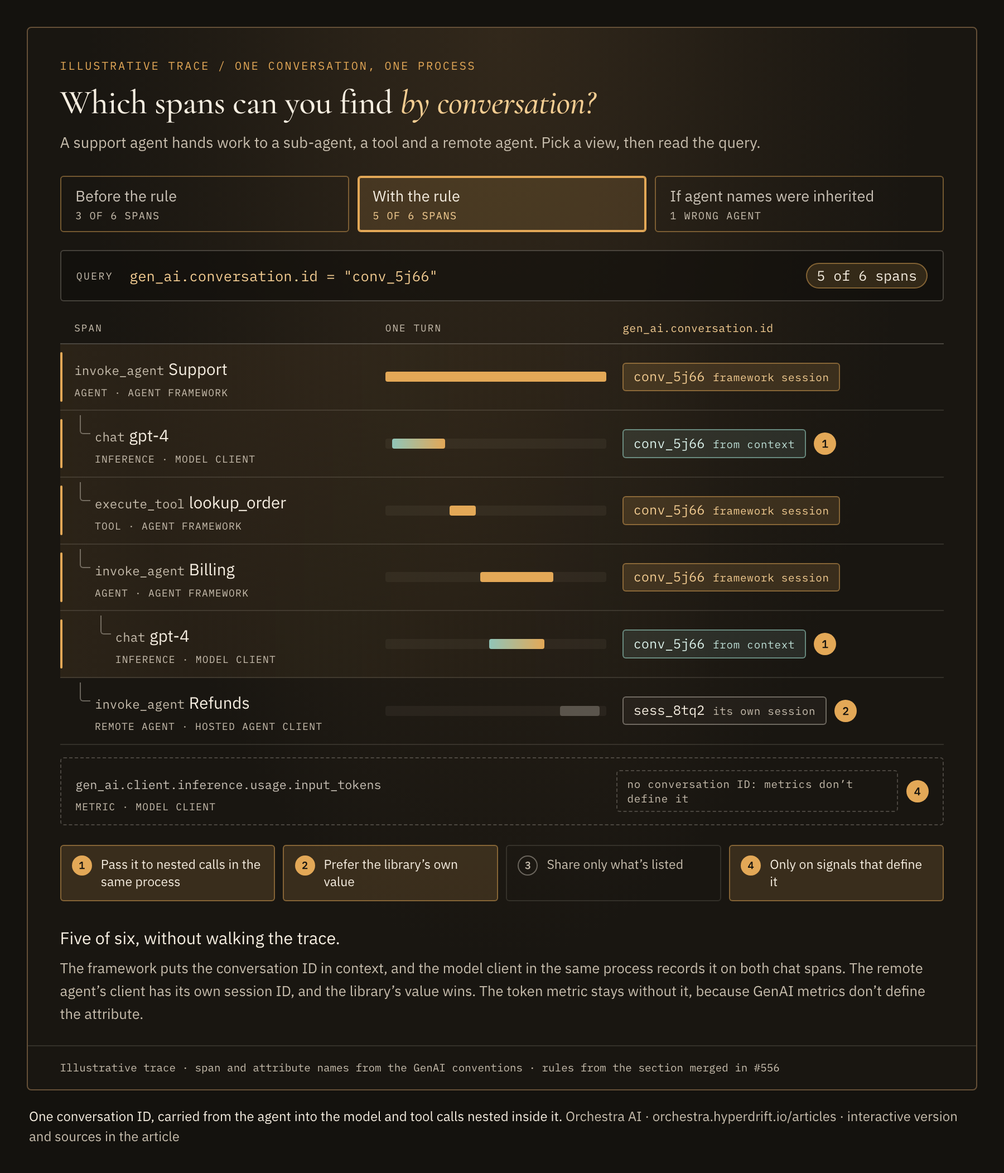
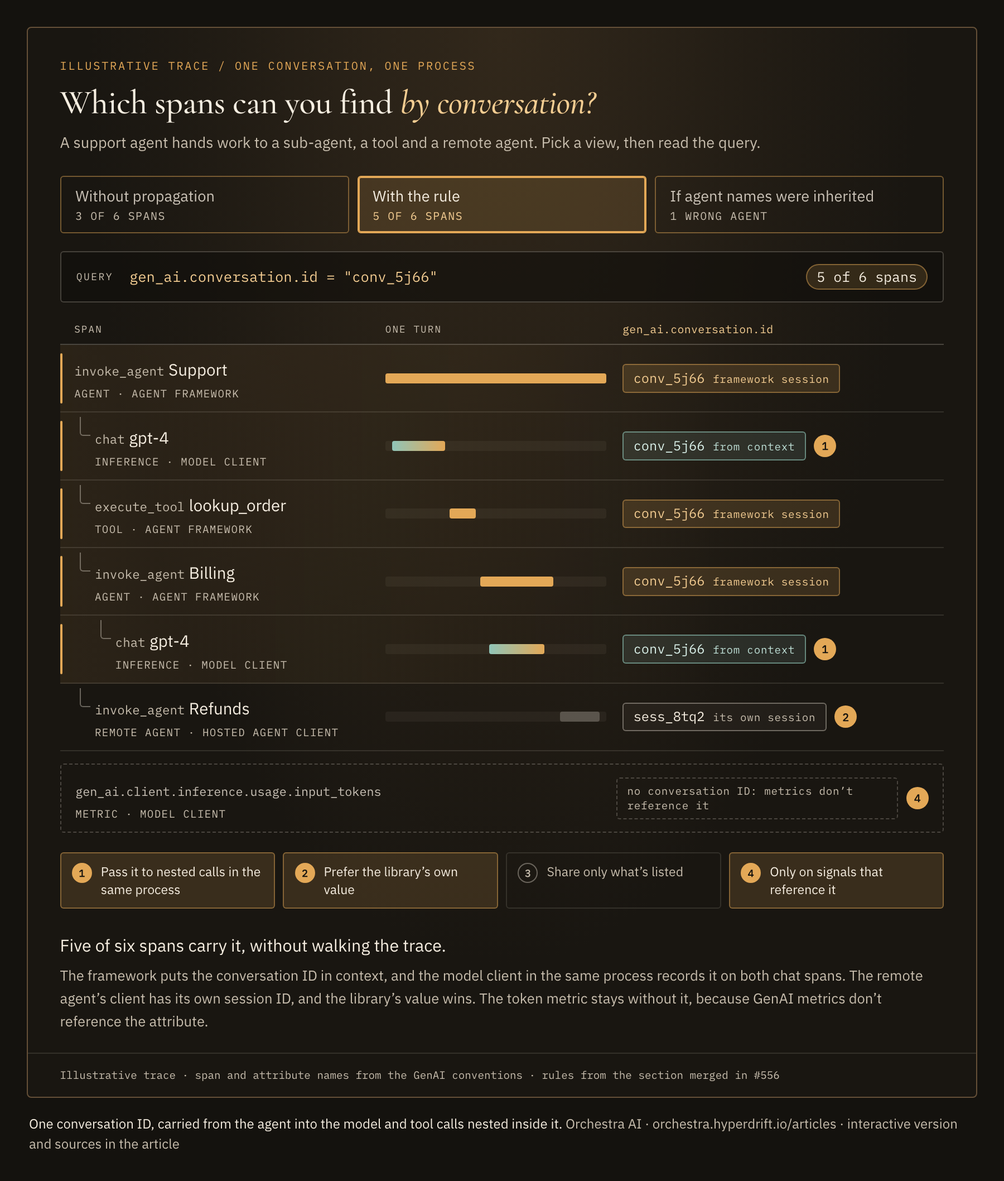
Apply the editorial read and ecosystem research to the #556 draft
Credit Liudmila's wording, name OpenTelemetry in the share line, use the
merged rule's "reference" wording, add the Python utility precedent, the
CNCF context and fourteen documented backends, scope small-text styles
above the article-wide rule, and read export captions from the catalogue.

diff --git a/src/components/visuals/ConventionsReach.tsx b/src/components/visuals/ConventionsReach.tsx
@@ -16,7 +16,7 @@ const groups = [
   { id: 'evaluation', label: 'Evaluation', libraries: ['deepeval', 'azure-ai-evaluation'] },
 ] as const;
 
-/** Every span that defines `gen_ai.conversation.id`, the reference libraries that emit it and those that record the ID on it. */
+/** Every span that references `gen_ai.conversation.id`, the reference libraries that emit it and those that record the ID on it. */
 const spans = [
   { id: 'agent', label: 'Agent, in process', emits: ['adk_a2a', 'agent-framework', 'autogen', 'crewai', 'google-adk', 'langchain', 'openai-agents', 'pydantic-ai'], records: ['adk_a2a', 'google-adk'] },
   { id: 'remote', label: 'Remote agent', emits: ['aws-bedrock-agent', 'azure-ai-foundry', 'google-genai', 'openai-assistants'], records: ['aws-bedrock-agent', 'openai-assistants'] },
@@ -35,8 +35,13 @@ const libraryCount = groups.reduce((sum, group) => sum + group.libraries.length,
 const places = spans.reduce((sum, span) => sum + span.emits.length, 0);
 const recorded = spans.reduce((sum, span) => sum + span.records.length, 0);
 
-/** Backends whose own documentation describes reading the GenAI conventions, as checked on 30–31 October 2026. */
-const readers: readonly string[] = [];
+/** Backends whose own documentation describes reading the GenAI conventions, read 30 October 2026. `groups`: the docs group a conversation by `gen_ai.conversation.id`. */
+const readers: readonly { name: string; groups?: boolean }[] = [
+  { name: 'Datadog', groups: true }, { name: 'Honeycomb', groups: true }, { name: 'Grafana Cloud', groups: true }, { name: 'Dynatrace', groups: true },
+  { name: 'Opik', groups: true }, { name: 'W&B Weave', groups: true }, { name: 'Pydantic Logfire', groups: true },
+  { name: 'Langfuse' }, { name: 'Arize Phoenix' }, { name: 'MLflow' }, { name: 'LangSmith' }, { name: 'Braintrust' }, { name: 'New Relic' }, { name: 'Google Cloud' },
+];
+const grouping = readers.filter((reader) => reader.groups).length;
 
 /** One document between the libraries that write GenAI telemetry and the backends that read it. */
 export function ConventionsReach() {
@@ -49,17 +54,17 @@ export function ConventionsReach() {
   };
   const summary = span
     ? { title: `${span.label}: ${span.records.length} of ${span.emits.length}.`, text: `${span.emits.length === 1 ? 'One library emits' : `${span.emits.length} libraries emit`} this span in the reference scenarios; ${span.records.length === span.emits.length ? 'it records' : `${span.records.length} record`} the conversation ID on it.` }
-    : { title: `${recordsAnywhere.size} of ${libraryCount} libraries record the conversation ID somewhere.`, text: `Count every place a library emits a span that defines the attribute and you get ${places}; the ID is in ${recorded} of them. The rule in #556 is how a conversation that the framework knows can reach the spans nested inside it.` };
+    : { title: `In their scenarios, ${recordsAnywhere.size} of ${libraryCount} libraries record the conversation ID.`, text: `Count every place a library emits a span that references the attribute and you get ${places}; the ID is in ${recorded} of them. The rule in #556 is how a conversation that the framework knows can reach the spans nested inside it.` };
   return <section data-visual="conventions-reach" data-pick={pick} aria-label="Where the rule sits between the libraries that write GenAI telemetry and the backends that read it">
-    <header><p>FROM THE REPOSITORY’S REFERENCE REPORTS / 30 OCTOBER 2026</p><h3>One document between <em>writers and readers</em></h3><p>The reference scenarios check {libraryCount} libraries against the GenAI conventions. Gold marks a library that records the conversation ID. Pick a span to see which libraries emit it.</p></header>
+    <header><p>FROM THE REPOSITORY’S REFERENCE REPORTS / 30 OCTOBER 2026</p><h3>One document between <em>writers and readers</em></h3><p>The reference scenarios check {libraryCount} libraries against the GenAI conventions, and backends read the same names. Gold marks a library that records the conversation ID and a backend that groups conversations by it. Pick a span to see which libraries emit it.</p></header>
     <div data-coverage="">
       <h4>Where the conversation ID is recorded today <small>{recorded} of {places}</small></h4>
       <nav aria-label="Pick a span">
-        <button type="button" aria-pressed={pick === 'all'} onClick={() => setPick('all')}><span>All spans</span><small>{recorded} of {places}</small></button>
+        <button type="button" aria-pressed={pick === 'all'} onClick={() => setPick('all')}><span>All spans</span>{' '}<small>{recorded} of {places}</small></button>
         {spans.map((entry) => <button key={entry.id} type="button" aria-pressed={pick === entry.id} onClick={() => setPick(entry.id)}>
           <span>{entry.label}</span>
           <i aria-hidden="true">{entry.emits.map((library) => <b key={library} data-on={(entry.records as readonly string[]).includes(library) || undefined} />)}</i>
-          <small>{entry.records.length} of {entry.emits.length}</small>
+          {' '}<small>{entry.records.length} of {entry.emits.length}</small>
         </button>)}
       </nav>
     </div>
@@ -77,11 +82,11 @@ export function ConventionsReach() {
       </div>
       <svg data-funnel="out" viewBox="0 0 100 24" preserveAspectRatio="none" aria-hidden="true"><path d="M44 0L2 24M47 0L26 24M50 0V24M53 0L74 24M56 0L98 24" /></svg>
       <section data-readers="" aria-label="Backends that read the conventions">
-        <h4>Read telemetry <small>any OpenTelemetry backend</small></h4>
-        {readers.length > 0 && <ul>{readers.map((reader) => <li key={reader}>{reader}</li>)}</ul>}
-        <p>Spans, metrics and events arrive with the same names, whichever library wrote them.</p>
+        <h4>Read telemetry <small>{readers.length} backends document the conventions</small></h4>
+        <ul>{readers.map((reader) => <li key={reader.name} data-groups={reader.groups || undefined}>{reader.name}</li>)}</ul>
+        <p>Gold: {grouping} group an agent conversation by <code>gen_ai.conversation.id</code>, so the spans that carry it join the conversation.</p>
       </section>
     </div>
-    <footer>Counts from the repository’s reference reports at main 6f98aef, read 30 October 2026 · groups are ours · a scenario shows what it exercises, not everything a library can do</footer>
+    <footer>Counts from the repository’s reference reports at main 6f98aef, read 30 October 2026 · library groups are ours · a scenario shows what it exercises, not everything a library can do · backends from their own documentation, read 30 October 2026</footer>
   </section>;
 }

diff --git a/src/components/visuals/ConversationTrace.tsx b/src/components/visuals/ConversationTrace.tsx
@@ -45,21 +45,21 @@ const rules = [
   { id: 'pass', text: 'Pass it to nested calls in the same process' },
   { id: 'prefer', text: 'Prefer the library’s own value' },
   { id: 'listed', text: 'Share only what’s listed' },
-  { id: 'defined', text: 'Only on signals that define it' },
+  { id: 'defined', text: 'Only on signals that reference it' },
 ] as const;
 
 type RuleId = (typeof rules)[number]['id'];
 
 const views: Record<View, { label: string; count: string; lit: readonly RuleId[]; title: string; text: string }> = {
   before: {
-    label: 'Before the rule', count: '3 of 6 spans', lit: [],
-    title: 'Three of six spans answer to the conversation.',
+    label: 'Without propagation', count: '3 of 6 spans', lit: [],
+    title: 'Three of six spans carry the conversation ID.',
     text: 'The agent framework records its session on its own spans. The model client inside it doesn’t know which conversation it serves, so both chat spans arrive without the ID. To find them, you walk the trace down from the agent.',
   },
   rule: {
     label: 'With the rule', count: '5 of 6 spans', lit: ['pass', 'prefer', 'defined'],
-    title: 'Five of six, without walking the trace.',
-    text: 'The framework puts the conversation ID in context, and the model client in the same process records it on both chat spans. The remote agent’s client has its own session ID, and the library’s value wins. The token metric stays without it, because GenAI metrics don’t define the attribute.',
+    title: 'Five of six spans carry it, without walking the trace.',
+    text: 'The framework puts the conversation ID in context, and the model client in the same process records it on both chat spans. The remote agent’s client has its own session ID, and the library’s value wins. The token metric stays without it, because GenAI metrics don’t reference the attribute.',
   },
   names: {
     label: 'If agent names were inherited', count: '1 wrong agent', lit: ['listed'],
@@ -95,7 +95,7 @@ export function ConversationTrace() {
   }).length;
   return <section data-visual="conversation-trace" data-view={view} data-animate={animate || undefined} aria-label="One conversation as a trace: which spans carry its ID">
     <header><p>ILLUSTRATIVE TRACE / ONE CONVERSATION, ONE PROCESS</p><h3>Which spans can you find <em>by conversation?</em></h3><p>A support agent hands work to a sub-agent, a tool and a remote agent. Pick a view, then read the query.</p></header>
-    <nav data-views="" aria-label="Choose a view">{order.map((id) => <button key={id} type="button" value={id} aria-pressed={view === id} onClick={() => { setAnimate(true); setView(id); }}>{views[id].label}<small>{views[id].count}</small></button>)}</nav>
+    <nav data-views="" aria-label="Choose a view">{order.map((id) => <button key={id} type="button" value={id} aria-pressed={view === id} onClick={() => { setAnimate(true); setView(id); }}>{views[id].label}{' '}<small>{views[id].count}</small></button>)}</nav>
     <div data-query=""><span>Query</span><code>{query.attribute} = &quot;{query.value}&quot;</code><strong aria-live="polite">{matches} of {spans.length} spans</strong></div>
     <div data-spans-head="" aria-hidden="true"><span>Span</span><span>One turn</span><span>{query.attribute}</span></div>
     <ol data-spans="">{spans.map((span) => {
@@ -108,7 +108,7 @@ export function ConversationTrace() {
         <div data-value="" key={view}>{view === 'names'
           ? (span.agent
             ? (wrong ? <span data-chip="wrong"><code>{span.inherited}</code> wrong agent: this span invokes {span.agent}</span> : <span data-chip="agent"><code>{span.agent}</code> its own agent</span>)
-            : <span data-chip="none">not defined on inference spans</span>)
+            : <span data-chip="none">inference spans don’t reference it</span>)
           : <Chip source={source} />}
           {view === 'rule' && span.rule === 'context' && <b data-rule-mark="" title="Rule 1">1</b>}
           {view === 'rule' && span.rule === 'session' && <b data-rule-mark="" title="Rule 2">2</b>}
@@ -116,7 +116,7 @@ export function ConversationTrace() {
         </div>
       </li>;
     })}</ol>
-    <div data-metric=""><div data-name=""><code>gen_ai.client.<wbr />inference.<wbr />usage.<wbr />input_tokens</code><small>Metric · model client</small></div><div data-value=""><span data-chip="none">no conversation ID: metrics don’t define it</span>{view === 'rule' && <b data-rule-mark="" title="Rule 4">4</b>}</div></div>
+    <div data-metric=""><div data-name=""><code>gen_ai.client.<wbr />inference.<wbr />usage.<wbr />input_tokens</code><small>Metric · model client</small></div><div data-value=""><span data-chip="none">no conversation ID: metrics don’t reference it</span>{view === 'rule' && <b data-rule-mark="" title="Rule 4">4</b>}</div></div>
     <ol data-rules="" aria-label="The four rules in the merged section">{rules.map((rule, index) => <li key={rule.id} data-lit={current.lit.includes(rule.id) || undefined}><b>{index + 1}</b>{rule.text}</li>)}</ol>
     <p data-outcome="" role="status"><strong>{current.title}</strong>{current.text}</p>
     <footer>Illustrative trace · span and attribute names from the GenAI conventions · rules from the section merged in #556</footer>

diff --git a/src/app/visual-conventions-reach.css b/src/app/visual-conventions-reach.css
@@ -3,7 +3,7 @@
 [data-visual="conventions-reach"] { container: reach / inline-size; --records: #e3a857; --emits: rgb(246 238 225 / .55); }
 [data-visual="conventions-reach"] button:focus-visible { outline: 2px solid var(--gold-light); outline-offset: 3px; }
 [data-visual="conventions-reach"] h4 { display: flex; flex-wrap: wrap; align-items: baseline; gap: .2rem .6rem; margin: 0 0 .8rem; font: 500 1.15rem/1.2 var(--font-display); color: var(--cream); }
-[data-visual="conventions-reach"] h4 small { font: .56rem var(--font-mono); letter-spacing: .12em; text-transform: uppercase; color: var(--cream-3); }
+:is(#article, :root) [data-visual="conventions-reach"] h4 small { font: .6rem var(--font-mono); letter-spacing: .12em; text-transform: uppercase; color: var(--cream-3); }
 
 [data-visual="conventions-reach"] [data-reach] { margin: 0 1.8rem 1.6rem; }
 
@@ -29,12 +29,12 @@
 /* The waist: the conventions, with the merged section lit. */
 [data-reach] [data-waist] { display: grid; justify-items: center; gap: .6rem; width: min(100%, 560px); margin: 0 auto; padding: 1rem 1.1rem 1.1rem; border: 1px solid var(--gold); border-radius: 4px; background: radial-gradient(ellipse at 50% 0, rgb(227 168 87 / .16), rgb(22 19 15 / .92) 70%); text-align: center; box-shadow: 0 0 40px rgb(227 168 87 / .12); }
 [data-waist] > p { display: grid; gap: .3rem; margin: 0; font: 500 1.2rem/1.2 var(--font-display); color: var(--cream); }
-[data-waist] > p small { font: .55rem var(--font-mono); letter-spacing: .14em; text-transform: uppercase; color: var(--cream-3); }
+:is(#article, :root) [data-waist] > p small { font: .58rem var(--font-mono); letter-spacing: .14em; text-transform: uppercase; color: var(--cream-3); }
 [data-waist] > ul { display: flex; flex-wrap: wrap; justify-content: center; gap: .25rem .35rem; margin: 0; padding: 0; list-style: none; }
 [data-waist] > ul li { padding: .15rem .45rem; border: 1px solid var(--line-soft); border-radius: var(--r-pill); font: .6rem/1.3 var(--font-mono); color: var(--cream-3); }
 [data-waist] [data-ours] { display: grid; gap: .25rem; width: 100%; padding: .6rem .8rem; border-radius: 3px; background: var(--gold); color: var(--ink); }
 [data-waist] [data-ours] span { font: 600 .9rem/1.25 var(--font-body); }
-[data-waist] [data-ours] small { font: .62rem/1.4 var(--font-mono); letter-spacing: .03em; color: rgb(20 18 14 / .82); }
+:is(#article, :root) [data-waist] [data-ours] small { font: .66rem/1.4 var(--font-mono); letter-spacing: .03em; color: rgb(20 18 14 / .82); }
 [data-waist] [data-ours] code { font: inherit; font-weight: 600; color: var(--ink); }
 
 /* Readers. */
@@ -49,13 +49,13 @@
 [data-coverage] nav { display: grid; grid-template-columns: repeat(4, minmax(0, 1fr)); gap: .4rem; }
 [data-visual="conventions-reach"] [data-coverage] button { display: grid; grid-template-columns: 1fr auto; grid-template-areas: "label count" "dots dots"; align-items: center; gap: .35rem .5rem; padding: .55rem .65rem; text-align: left; border-color: var(--line-soft); }
 [data-coverage] button > span { grid-area: label; font: 500 .78rem/1.25 var(--font-body); color: var(--cream-2); }
-[data-coverage] button > small { grid-area: count; font: .62rem var(--font-mono); color: var(--cream-3); }
+:is(#article, :root) [data-coverage] button > small { grid-area: count; font: .68rem var(--font-mono); color: var(--cream-3); }
 [data-coverage] button > i { grid-area: dots; display: flex; flex-wrap: wrap; gap: 3px; min-height: 9px; }
 [data-coverage] button > i b { width: 9px; height: 9px; border-radius: 50%; box-shadow: inset 0 0 0 1px var(--emits); }
 [data-coverage] button > i b[data-on] { background: var(--records); box-shadow: none; }
 [data-visual="conventions-reach"] [data-coverage] button[aria-pressed="true"] { border-color: var(--gold); background: var(--gold-soft); }
 [data-coverage] button[aria-pressed="true"] > span { color: var(--cream); }
-[data-coverage] button[aria-pressed="true"] > small { color: var(--gold-light); }
+:is(#article, :root) [data-coverage] button[aria-pressed="true"] > small { color: var(--gold-light); }
 [data-visual="conventions-reach"] [data-outcome] { min-height: 92px; padding-bottom: 1.3rem; }
 
 @container reach (max-width: 640px) {
@@ -63,3 +63,6 @@
   [data-reach] [data-writers] { grid-template-columns: 1fr; padding: .9rem; }
   [data-coverage] nav { grid-template-columns: 1fr 1fr; }
 }
+[data-reach] [data-readers] li[data-groups] { border-color: var(--records); background: rgb(227 168 87 / .2); color: var(--gold-light); }
+[data-reach] [data-readers] li[data-groups]::before { content: '●'; margin-right: .35rem; font-size: .55rem; color: var(--records); vertical-align: middle; }
+[data-reach] [data-readers] p code { font: .72rem var(--font-mono); color: var(--gold-light); }

diff --git a/src/app/visual-conversation-trace.css b/src/app/visual-conversation-trace.css
@@ -6,11 +6,11 @@
 /* The three views. */
 [data-visual="conversation-trace"] > nav[data-views] { display: grid; grid-template-columns: repeat(3, minmax(0, 1fr)); gap: .45rem; margin: 0 1.8rem 1rem; }
 [data-visual="conversation-trace"] [data-views] button { display: grid; gap: .2rem; justify-items: start; align-content: start; text-align: left; font: 500 .85rem/1.25 var(--font-body); }
-[data-visual="conversation-trace"] [data-views] button small { font: .58rem/1.2 var(--font-mono); letter-spacing: .08em; text-transform: uppercase; color: var(--cream-3); }
+:is(#article, :root) [data-visual="conversation-trace"] [data-views] button small { font: .62rem/1.2 var(--font-mono); letter-spacing: .08em; text-transform: uppercase; color: var(--cream-3); }
 [data-visual="conversation-trace"] [data-views] button[aria-pressed="true"] { color: var(--cream); box-shadow: inset 0 0 0 1px var(--gold); }
-[data-visual="conversation-trace"] [data-views] button[aria-pressed="true"] small { color: var(--gold-light); }
+:is(#article, :root) [data-visual="conversation-trace"] [data-views] button[aria-pressed="true"] small { color: var(--gold-light); }
 [data-visual="conversation-trace"] [data-views] button[value="names"][aria-pressed="true"] { border-color: var(--wrong); background: rgb(232 161 138 / .1); box-shadow: inset 0 0 0 1px rgb(232 161 138 / .5); }
-[data-visual="conversation-trace"] [data-views] button[value="names"][aria-pressed="true"] small { color: var(--wrong); }
+:is(#article, :root) [data-visual="conversation-trace"] [data-views] button[value="names"][aria-pressed="true"] small { color: var(--wrong); }
 
 /* The query and its answer. */
 [data-visual="conversation-trace"] [data-query] { display: flex; flex-wrap: wrap; align-items: center; gap: .5rem .9rem; margin: 0 1.8rem 1.1rem; padding: .65rem .85rem; border: 1px solid var(--line-soft); border-radius: 3px; background: rgb(15 13 10 / .6); }
@@ -39,7 +39,7 @@
 [data-spans] > li[data-depth="2"] [data-name]::before { left: 1.45rem; }
 [data-visual="conversation-trace"] [data-name] code { font: .7rem var(--font-mono); color: var(--cream-3); }
 [data-visual="conversation-trace"] [data-name] strong { font: 500 .92rem/1.2 var(--font-body); color: var(--cream); }
-[data-visual="conversation-trace"] [data-name] small { display: block; margin-top: .2rem; font: .56rem/1.3 var(--font-mono); letter-spacing: .07em; text-transform: uppercase; color: var(--cream-3); }
+:is(#article, :root) [data-visual="conversation-trace"] [data-name] small { display: block; margin-top: .2rem; font: .6rem/1.3 var(--font-mono); letter-spacing: .07em; text-transform: uppercase; color: var(--cream-3); }
 
 /* The waterfall bar: where the span sits in the turn. */
 [data-spans] [data-bar] { position: relative; display: block; height: 9px; border-radius: 2px; background: rgb(246 238 225 / .05); }

diff --git a/src/components/visuals/ReviewTimeline.tsx b/src/components/visuals/ReviewTimeline.tsx
@@ -9,7 +9,7 @@ type Attribute = 'agent' | 'conversation';
 
 const stops: readonly { date: string; who?: string; title: string; text: string; scope: readonly Attribute[]; form: string; approval?: boolean }[] = [
   { date: '1 Oct', title: 'Opened', text: 'An 18-line summary of where two attributes already appear.', scope: ['agent', 'conversation'], form: 'Summary' },
-  { date: '12 Oct', who: 'Liudmila Molkova', title: 'Make it normative', text: 'Set rules for propagation, and link the canonical definitions instead of repeating them.', scope: ['agent', 'conversation'], form: 'Summary' },
+  { date: '12 Oct', who: 'Liudmila Molkova', title: 'Make it normative', text: 'Proposed rules for propagation, and links to the canonical definitions instead of repeating them.', scope: ['agent', 'conversation'], form: 'Summary' },
   { date: '13 Oct', who: 'Liudmila Molkova', title: 'Revised and approved', text: 'A change like this also needs an approval from a reviewer at a second company.', scope: ['agent', 'conversation'], form: 'Rules', approval: true },
   { date: '23 Oct', who: 'Trask Stalnaker', title: 'The wrong agent', text: 'An inherited agent name can label a remote agent with its caller’s name. The SIG continues agent naming in #385.', scope: ['agent', 'conversation'], form: 'Rules' },
   { date: '27 Oct', title: 'Agent name removed', text: 'The list keeps the conversation ID only.', scope: ['conversation'], form: 'Rules' },
@@ -20,8 +20,7 @@ const names: Record<Attribute, string> = { agent: 'gen_ai.agent.name', conversat
 
 const facts = [
   { value: '30', label: 'days in review' },
-  { value: '5', label: 'commits' },
-  { value: '7', label: 'review threads, all resolved' },
+  { value: '16', label: 'lines added' },
   { value: '2', label: 'approvals, two companies' },
   { value: '44', label: 'checks passed on the final commit' },
 ];
@@ -29,7 +28,7 @@ const facts = [
 /** How review turned a summary of two attributes into four rules for one. */
 export function ReviewTimeline() {
   return <section data-visual="review-timeline" aria-label="Thirty days of review on pull request 556">
-    <header><p>FROM THE PUBLIC PULL REQUEST / 1–30 OCTOBER 2026</p><h3>Review made it <em>smaller and stronger</em></h3><p>What the change carried at each step of its review.</p></header>
+    <header><p>FROM THE PUBLIC PULL REQUEST / 1–30 OCTOBER 2026</p><h3>From two attributes <em>to one</em></h3><p>What the change carried at each step of its review.</p></header>
     <ol data-stops="">{stops.map((stop) => <li key={stop.date} data-approval={stop.approval || undefined}>
       <time>{stop.date}</time>
       <div><strong>{stop.title}</strong>{stop.who && <small>{stop.who}</small>}<p>{stop.text}</p></div>

diff --git a/src/lib/article-source-notes.ts b/src/lib/article-source-notes.ts
@@ -21,6 +21,12 @@ const notes: Record<string, SourceNote> = {
   'https://github.com/open-telemetry/semantic-conventions-genai/blob/main/reference/README.md': { title: 'GenAI reference implementations and reports', by: 'OpenTelemetry · main 6f98aef · read 30 October 2026', preview: 'unavailable' },
   'https://github.com/open-telemetry/semantic-conventions-genai/blob/main/reference/reports/inference-span.md': { title: 'Inference span: supporting libraries', by: 'OpenTelemetry · main 6f98aef · read 30 October 2026', preview: 'unavailable' },
   'https://github.com/open-telemetry/semantic-conventions-genai/blob/main/.github/POLICIES.md': { title: 'Repository review and merge rules', by: 'OpenTelemetry · read 30 October 2026', preview: 'unavailable' },
+  'https://github.com/open-telemetry/opentelemetry-python-genai/pull/726': { title: 'Propagate gen_ai.conversation.id to nested spans', by: 'OpenTelemetry Python GenAI · merged 22 September 2026', preview: 'unavailable' },
+  'https://grafana.com/docs/grafana-cloud/observe-and-act/agent-observability/get-started/opentelemetry/': { title: 'Send agent telemetry with OpenTelemetry', by: 'Grafana Cloud documentation · read 30 October 2026', preview: 'unavailable' },
+  'https://docs.honeycomb.io/send-data/use-cases/agents': { title: 'Agents', by: 'Honeycomb documentation · read 30 October 2026', preview: 'unavailable' },
+  'https://docs.datadoghq.com/llm_observability/instrument/otel_instrumentation/': { title: 'OpenTelemetry instrumentation', by: 'Datadog documentation · read 30 October 2026', preview: 'unavailable' },
+  'https://docs.dynatrace.com/docs/observe/dynatrace-for-ai-observability/metrics-reference': { title: 'AI observability metrics and attributes', by: 'Dynatrace documentation · read 30 October 2026', preview: 'unavailable' },
+  'https://www.cncf.io/announcements/2026/05/21/cloud-native-computing-foundation-announces-opentelemetrys-graduation-solidifying-status-as-the-de-facto-observability-standard/': { title: 'CNCF announces OpenTelemetry’s graduation', by: 'CNCF · 21 May 2026', preview: 'unavailable' },
 
   // DSPy drafts: reviewed 23 October 2026. External sources remain available in the figure source controls.
   "https://ai.google.dev/gemini-api/docs/generate-content/thought-signatures": {"title": "Gemini Generate Content thought signatures", "by": "Google AI documentation \u00b7 reviewed 23 October 2026", "preview": "unavailable"},

diff --git a/src/app/visual-review-timeline.css b/src/app/visual-review-timeline.css
@@ -11,7 +11,7 @@
 [data-stops] time { font: 500 .72rem/1.6 var(--font-mono); letter-spacing: .06em; color: var(--gold-light); }
 [data-stops] > li > div { padding-left: .6rem; }
 [data-stops] strong { display: block; font: 500 1.05rem/1.25 var(--font-display); color: var(--cream); }
-[data-stops] > li > div > small { display: block; margin-top: .1rem; font: .56rem/1.4 var(--font-mono); letter-spacing: .1em; text-transform: uppercase; color: var(--gold); }
+:is(#article, :root) [data-stops] > li > div > small { display: block; margin-top: .1rem; font: .6rem/1.4 var(--font-mono); letter-spacing: .1em; text-transform: uppercase; color: var(--gold); }
 [data-stops] p { margin: .3rem 0 0; font: .8rem/1.5 var(--font-body); color: var(--cream-3); }
 [data-stops] > li > ul { display: grid; gap: .25rem; margin: 0; padding: 0; list-style: none; }
 [data-stops] > li > ul li { padding: .2rem .45rem; border: 1px dashed var(--line-hair); border-radius: 3px; font: .62rem/1.35 var(--font-mono); color: var(--cream-3); opacity: .55; }
@@ -21,7 +21,7 @@
 [data-stops] > li > ul li[data-form] { border: 0; padding-inline: .1rem; letter-spacing: .1em; text-transform: uppercase; font-size: .55rem; opacity: 1; }
 [data-stops] > li:last-child > ul li[data-form] { color: var(--gold-light); }
 
-[data-visual="review-timeline"] [data-facts] { display: grid; grid-template-columns: repeat(5, minmax(0, 1fr)); gap: 0; margin: 1.1rem 1.8rem 0; border-block: 1px solid var(--line-soft); }
+[data-visual="review-timeline"] [data-facts] { display: grid; grid-template-columns: repeat(4, minmax(0, 1fr)); gap: 0; margin: 1.1rem 1.8rem 0; border-block: 1px solid var(--line-soft); }
 [data-facts] > div { display: flex; flex-direction: column-reverse; gap: .2rem; padding: .8rem .7rem; border-left: 1px solid var(--line-hair); }
 [data-facts] > div:first-child { border-left: 0; padding-left: 0; }
 [data-facts] dd { margin: 0; font: 500 2rem/1 var(--font-display); color: var(--gold-light); }

diff --git a/content/articles/opentelemetry-genai-conversation-id.md b/content/articles/opentelemetry-genai-conversation-id.md
@@ -1,14 +1,14 @@
-We got our first PR merged into a significant repository: OpenTelemetry's semantic conventions for generative AI. Liudmila Molkova merged [#556](https://github.com/open-telemetry/semantic-conventions-genai/pull/556) on 30 October. It sets out how GenAI instrumentation can pass a conversation ID to the calls nested inside an agent, so you can find a conversation's spans by that ID instead of walking the trace.
-
-> Your agent framework knows the conversation. Now the model and tool calls inside it can carry the same ID.
+We got our first PR merged into a significant repository: OpenTelemetry's semantic conventions for generative AI. Liudmila Molkova merged [#556](https://github.com/open-telemetry/semantic-conventions-genai/pull/556) on 30 October. It sets out how GenAI instrumentation can pass a conversation ID to the calls nested inside an agent. As instrumentations adopt it, you can find a conversation's spans by that ID instead of walking the trace.
 
 {{visual:primary}}
 
 ## Who follows these conventions
 
-OpenTelemetry is the open standard for traces, metrics and logs. Its semantic conventions are the shared names: when every library records the model in `gen_ai.request.model`, any backend can read telemetry from any of them without a custom mapping.
+OpenTelemetry is the open standard for traces, metrics and logs. It graduated in the CNCF in May, and the CNCF ranks its project velocity second only to Kubernetes. Its semantic conventions are the shared names: when every library records the model in `gen_ai.request.model`, any backend can read telemetry from any of them without a custom mapping.
 
-The GenAI conventions describe model calls, agents, tools, evaluations and MCP. They moved into [their own repository](https://github.com/open-telemetry/semantic-conventions-genai) in May, and by 30 October more than 110 people had contributed and 269 pull requests had merged there. Its reference scenarios check the conventions against 30 Python libraries, from the OpenAI and Anthropic clients to LangChain, CrewAI, Google ADK and Pydantic AI. The people who instrument these libraries read this document to decide what their spans should say.
+The GenAI conventions describe model calls, agents, tools, evaluations and MCP. They moved into [their own repository](https://github.com/open-telemetry/semantic-conventions-genai) in May, and by 30 October more than 110 people had contributed and 269 pull requests had merged there. Its reference scenarios check the conventions against 30 Python libraries, from the OpenAI and Anthropic clients to LangChain, CrewAI, Google ADK and Pydantic AI.
+
+On the reading side, Datadog, Honeycomb, Grafana Cloud, Dynatrace, Opik, W&B Weave and Pydantic Logfire document grouping an agent conversation by `gen_ai.conversation.id`. Grafana's guide warns that without it, each trace becomes its own conversation.
 
 {{visual:conventions-reach}}
 
@@ -16,21 +16,21 @@ The GenAI conventions describe model calls, agents, tools, evaluations and MCP. 
 
 An agent framework usually knows which conversation it's serving, such as a LangChain or ADK session. The model client it calls usually doesn't. Its instrumentation sees one request and one response.
 
-The [reference reports](https://github.com/open-telemetry/semantic-conventions-genai/blob/main/reference/README.md) show the gap. In their scenarios, 14 of the 30 libraries emit inference spans and two of them record a conversation ID there. Count every place a library emits a span that defines the attribute and you get 43. The ID is in 11 of them.
+The [reference reports](https://github.com/open-telemetry/semantic-conventions-genai/blob/main/reference/README.md) show the gap. In their scenarios, 14 of the 30 libraries emit inference spans and two of them record a conversation ID there. Count every place a library emits a span that references the attribute and you get 43. The ID is in 11 of them.
 
 OpenTelemetry usually avoids repeating an attribute on every layer. Liudmila opened [issue #522](https://github.com/open-telemetry/semantic-conventions-genai/issues/522) after a GenAI SIG call found that this makes GenAI queries hard: the conversation is useful on the agent span, its tool calls and its model calls.
 
 ## The rule
 
-The merged section in the [GenAI overview](https://github.com/open-telemetry/semantic-conventions-genai/blob/main/docs/gen-ai/README.md#attributes-shared-across-operations) sets four rules. Instrumentations may pass the listed attributes to nested instrumentations in the same process. When the instrumented library has its own value, that value should win over the outer context. They shouldn't pass on anything unlisted, or record these attributes on a signal that doesn't define them. The list holds one attribute: `gen_ai.conversation.id`.
+The merged section in the [GenAI overview](https://github.com/open-telemetry/semantic-conventions-genai/blob/main/docs/gen-ai/README.md#attributes-shared-across-operations) sets four rules. Instrumentations may pass the listed attributes to nested instrumentations in the same process. When the instrumented library has its own value, that value should win over the outer context. They shouldn't pass on anything unlisted, or record these attributes on a signal that doesn't reference them. The list holds one attribute: `gen_ai.conversation.id`.
 
-The last rule keeps the ID off metrics. GenAI metrics don't define it, and a label per conversation would start a new series for every conversation.
+OpenTelemetry's [Python GenAI utility](https://github.com/open-telemetry/opentelemetry-python-genai/pull/726) has passed the ID this way since September: an operation without its own conversation ID takes the one from the enclosing context. The merged section makes that the convention for every instrumentation, in any language.
 
-The attribute's [definition](https://github.com/open-telemetry/semantic-conventions-genai/blob/main/docs/registry/attributes/gen-ai.md#gen-ai-conversation-id) already covers the missing case: leave it unset. A new UUID, a trace ID or a hash of the request isn't a conversation ID.
+The last rule keeps the ID off metrics. GenAI metrics don't reference it, and a label per conversation would start a new series for every conversation.
 
 ## Review made it better
 
-Our first version was an 18-line summary of where two attributes already appeared: `gen_ai.agent.name` and `gen_ai.conversation.id`. Liudmila asked for more: "Let's make it normative and more specific." The review also asked us to link the canonical definitions instead of repeating them, because a repeated definition goes stale and carries no normative weight.
+Our first version was an 18-line summary of where two attributes already appeared: `gen_ai.agent.name` and `gen_ai.conversation.id`. Liudmila asked us to make it "normative and more specific", proposed the wording we applied and asked for links to the canonical definitions: a repeated definition goes stale and carries no normative weight.
 
 Trask Stalnaker then found the case that changed the scope. If a nested call inherits the agent name, a request from a Planner agent to a remote agent can be recorded under Planner's name: the wrong agent. The GenAI SIG discussed it on its call and continued agent naming in [#385](https://github.com/open-telemetry/semantic-conventions-genai/pull/385), a draft that proposes `gen_ai.main_agent.name`. We removed the agent name.
 
@@ -40,14 +40,14 @@ The repository asks for two approvals from reviewers at different companies for 
 
 ## What to do in your instrumentation
 
-If you maintain an agent framework's instrumentation, put the conversation ID in context when an agent or workflow starts, so nested GenAI instrumentation in the same process can record it. If you maintain a model client's, use the client's own conversation or thread ID when it has one and the context's otherwise. Keep the agent name per operation, and follow #385 for the main agent.
+If you maintain an agent framework's instrumentation, put the conversation ID in context when an agent or workflow starts, so nested GenAI instrumentation in the same process can record it. If you maintain a model client's, use the client's own conversation or thread ID when it has one and the context's otherwise. With no conversation ID, leave it unset: the attribute's [definition](https://github.com/open-telemetry/semantic-conventions-genai/blob/main/docs/registry/attributes/gen-ai.md#gen-ai-conversation-id) rules out a new UUID, a trace ID or a hash of the request as a fallback. Keep the agent name per operation, and follow #385 for the main agent.
 
 If you read the telemetry, a filter on `gen_ai.conversation.id` can return a conversation's inference and tool spans as instrumentations adopt the rule. The rule is optional, the conventions are in Development status and the change has merged on main without a tagged release, so check what your libraries record before you build a dashboard on it.
 
 ## Why we contribute
 
-We contribute to the key pillars of open-source AI. Visibility is welcome, but the knowledge gained is what we bring back into what we build and offer.
+We contribute to the key pillars of open-source AI to build trust. Besides visibility, the knowledge gained goes into what we build and offer.
 
-This review taught us to keep the conversation and the agent apart. When another agent or model picks up the work, the conversation keeps its identity, and each step records the agent that did it. A missing ID stays missing. That's the design we're taking into how our agents hand over work; it isn't OpenTelemetry instrumentation we run yet.
+This review taught us to keep the conversation and the agent apart. We can use that split when our agents hand work over: the conversation keeps its ID, each step names the agent that did it, and a missing ID stays missing. We don't run OpenTelemetry instrumentation ourselves yet.
 
-Thanks to Liudmila Molkova for opening the issue, shaping the rule and merging it, to Trask Stalnaker for the review that narrowed it, and to the GenAI SIG for the decision on agent naming. We prepared the change with AI assistance and said so in the PR.
+Thanks to Liudmila Molkova for opening the issue, proposing the rule's wording and merging it, to Trask Stalnaker for the review that narrowed it, and to the GenAI SIG for the decision on agent naming. We prepared the change with AI assistance and said so in the PR.
